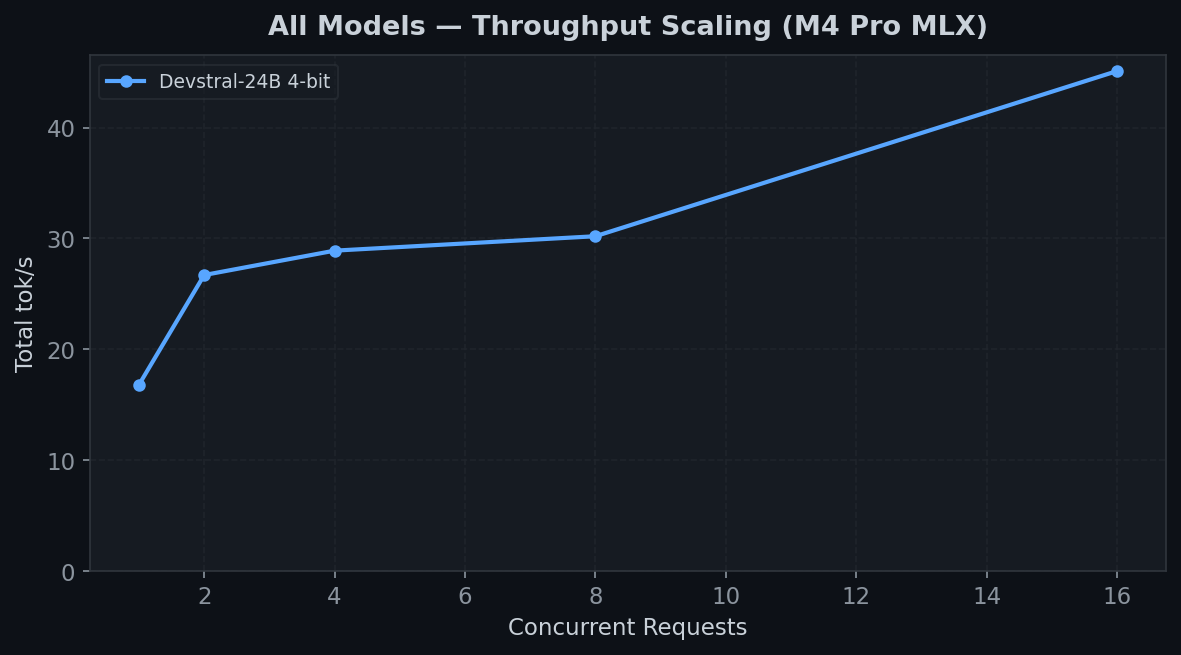
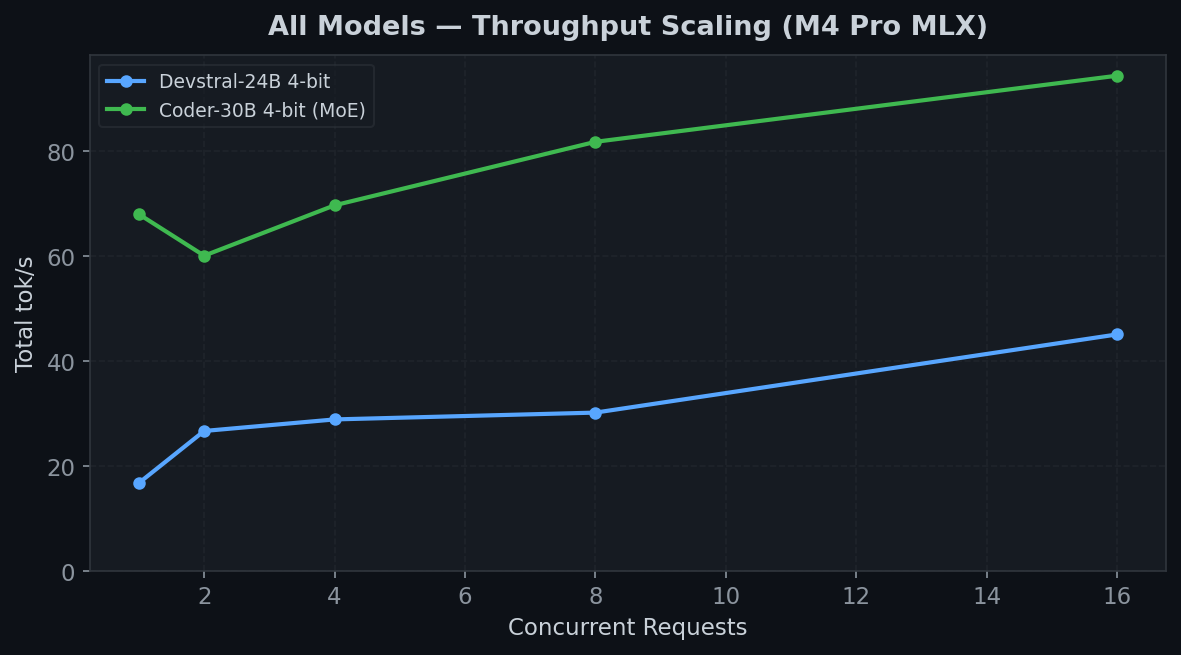
Add Coder-30B benchmarks, fix Qwen3.5 chat template, remove cross-platform comparison
Coder-30B MoE 4-bit on M4 Pro:
- 68 tok/s single-user (4x faster than Devstral — MoE reads only 3B active params)
- 94 tok/s peak at 16 concurrent
- Context sweep from 128 to 32K

Also:
- Remove cross-platform comparison section (this repo is Apple Silicon only)
- Fix Qwen3.5 chat template (tokenizer already embeds it for HF models)
- Upgrade transformers to 5.5.3 for Gemma4 support
- Max context column removed — will test actual limits per model

diff --git a/README.md b/README.md
@@ -42,17 +42,17 @@ python scripts/bench/bench_all_unified.py --name "Model Name" --port 23334
 
 All models run on SGLang with the MLX backend (`SGLANG_USE_MLX=1`). Models are downloaded automatically from HuggingFace on first launch. The `mlx-community/` namespace has pre-quantized MLX versions of most popular models.
 
-### Agent / coding workloads (single-user, max context)
+### Agent / coding workloads (single-user)
 
-| Model | Type | 4-bit size | Max context | 1-user tok/s | Launch | Status |
-|-------|------|:----------:|:----------:|:------------:|:------:|:------:|
-| Devstral-24B | Dense | ~14 GB | 32K | 16 | `launch.sh devstral` | Working |
-| Coder-30B | MoE (128 experts) | ~16 GB | 32K | — | `launch.sh coder-30b` | Testing |
-| Gemma 4 26B | MoE (128 experts) | ~15 GB | 4K | — | `launch.sh gemma4` | Testing |
-| Qwen3.5-27B | DeltaNet hybrid | ~15 GB | 32K | — | `launch.sh qwen35` | Testing |
-| Coder-Next 80B | MoE+DeltaNet (512 experts) | ~42 GB | 8K | — | `launch.sh coder-next` | Testing |
+| Model | Type | 4-bit size | 1-user tok/s | Launch | Status |
+|-------|------|:----------:|:------------:|:------:|:------:|
+| Devstral-24B | Dense | ~14 GB | 16 | `launch.sh devstral` | Working |
+| Coder-30B | MoE (128 experts) | ~16 GB | 68 | `launch.sh coder-30b` | Working |
+| Gemma 4 26B | MoE (128 experts) | ~15 GB | — | `launch.sh gemma4` | Testing |
+| Qwen3.5-27B | DeltaNet hybrid | ~15 GB | — | `launch.sh qwen35` | Testing |
+| Coder-Next 80B | MoE+DeltaNet (512 experts) | ~42 GB | — | `launch.sh coder-next` | Testing |
 
-All models served as 4-bit MLX quantized from `mlx-community/` on HuggingFace.
+All models served as 4-bit MLX quantized from `mlx-community/` on HuggingFace. Max context is limited by available memory, not a fixed cap — 64GB unified memory supports long context for most models.
 
 ### Memory budget (64GB unified)
 
@@ -113,15 +113,36 @@ All models served as 4-bit MLX quantized from `mlx-community/` on HuggingFace.
 - MLX kernels compile on first use: first request after cold start takes 20-30s. Subsequent requests are fast.
 - Concurrency throughput scales to 45 tok/s @16 concurrent, but output quality degrades with batched decode (KV cache merge/extract limitation)
 
-### Cross-platform comparison
+### Coder-30B MoE 4-bit (128 experts)
 
-| Hardware | Devstral-24B 1-user | Peak throughput | VRAM/Memory |
-|----------|:-------------------:|:---------------:|:-----------:|
-| M4 Pro 64GB (MLX) | 16 tok/s | 45 @16 | 64 GB unified |
-| 2x R9700 RDNA4 (ROCm) | 37 tok/s | 1,266 @64 | 64 GB (32+32) |
-| 2x RTX 3090 (CUDA) | 79 tok/s | 1,647 @32 | 48 GB (24+24) |
+30B total / 3B active MoE. ~16 GB 4-bit weights. Fastest model — MoE only reads active expert weights per token.
 
-The M4 Pro is ~2-5x slower than discrete GPUs for decode (bandwidth-limited: 273 GB/s vs 936+ GB/s) but has the advantage of 64GB unified memory fitting models that discrete GPUs struggle with.
+![Coder-30B context scaling](benchmarks/coder-30b-4bit/context_vs_toks.png)
+
+| Context Length | tok/s |
+|:--------------:|:-----:|
+| 128 | 61.8 |
+| 512 | 61.4 |
+| 1K | 55.7 |
+| 4K | 36.1 |
+| 8K | 24.2 |
+| 16K | 14.0 |
+| **32K** | **14.0** |
+
+![Coder-30B concurrency](benchmarks/coder-30b-4bit/concurrency_vs_toks.png)
+
+| Concurrency | Total tok/s |
+|:-----------:|:-----------:|
+| 1 | 68 |
+| 2 | 60 |
+| 4 | 70 |
+| 8 | 82 |
+| **16** | **94** |
+
+**Notes:**
+- 68 tok/s single-user — 4x faster than Devstral because MoE only activates 3B of 30B params per token
+- Throughput scales to 94 tok/s @16 concurrent
+- Context length limited by KV cache memory, not model weights — should support much longer context with 64GB
 
 ## Patches
 
